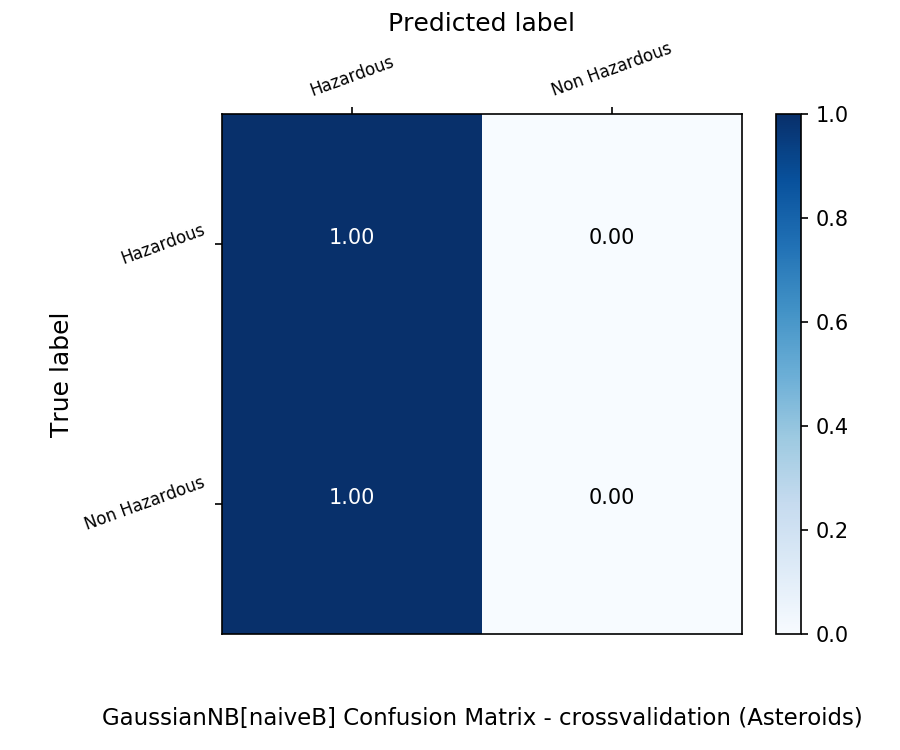
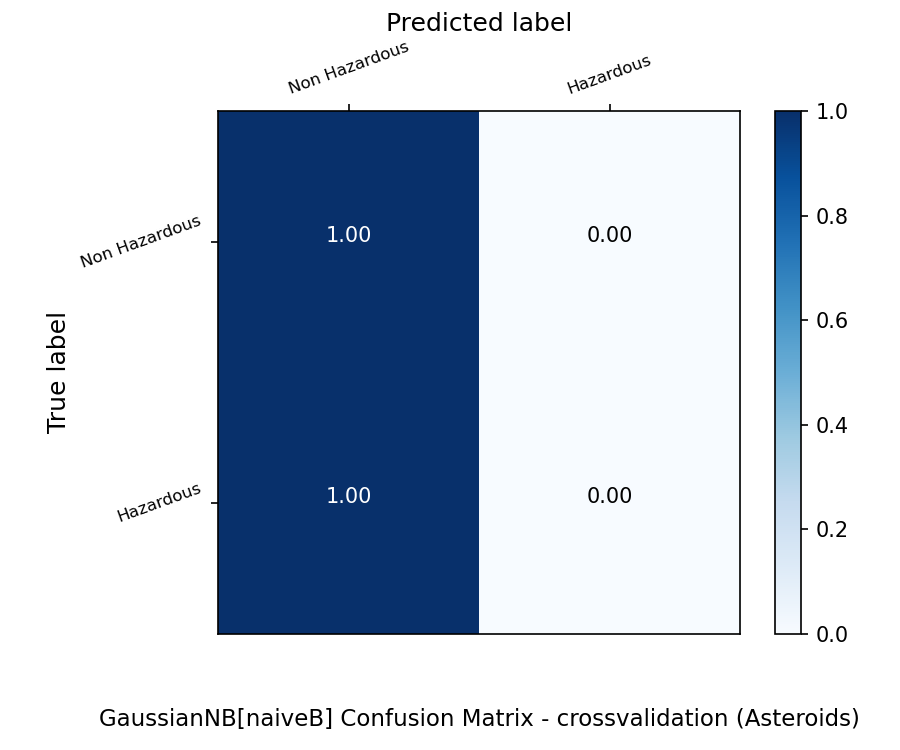
changed labels asteroids matrix

diff --git a/ex_1_total/classifier.py b/ex_1_total/classifier.py
@@ -143,7 +143,7 @@ def splitDataset(dataset = '', train_features = [], target_features = [] ):
     return train_set, target_set, x_train, x_test, y_train, y_test
 
 
-def Classifier(x_train,y_train, classifier = 'tree', criterion = "gini" , n_neighbors = 4  ):
+def Classifier(x_train,y_train, classifier='tree', criterion="gini",  n_neighbors=4):
     """ Run a DecisionTreeClassifier algorithm, with the specified criterion
     input  ::   classifier:  tree   DecisionTreeClassifier
                              kNN    KNeighborsClassifier
@@ -209,7 +209,7 @@ def printMatrix(target, matrix, classifier, param, dataset, balance = '', valida
         plt.text(j, i, '{0:.2f}'.format(matrix[i, j]) , horizontalalignment="center",
                  color="white" if matrix[i, j] > thresh else "black")
 
-    ticks = { 'asteroids' : ['Hazardous' , 'Non Hazardous'],
+    ticks = { 'asteroids' : ['Non Hazardous' , 'Hazardous'],
               'drugs': ["Never", ">10 Years Ago", "Last Decade", "Last Year", "Last Month",
               "Last Week", "Last Day"],
               'breastCancer' :  ['Reccurence' , 'No recurrence'] ,
